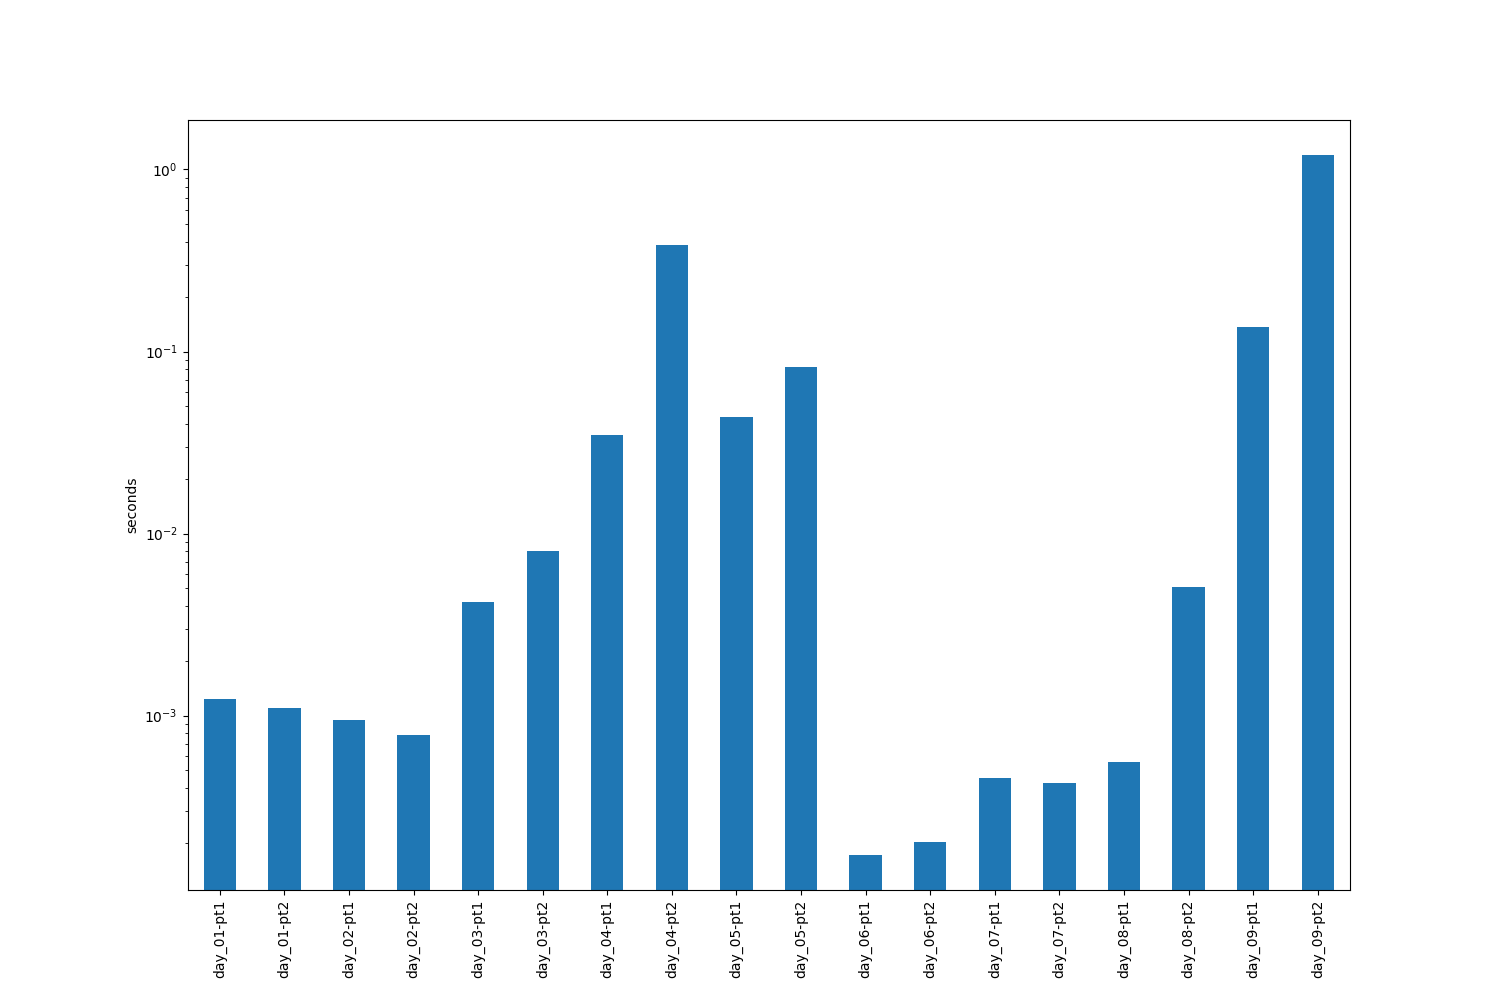
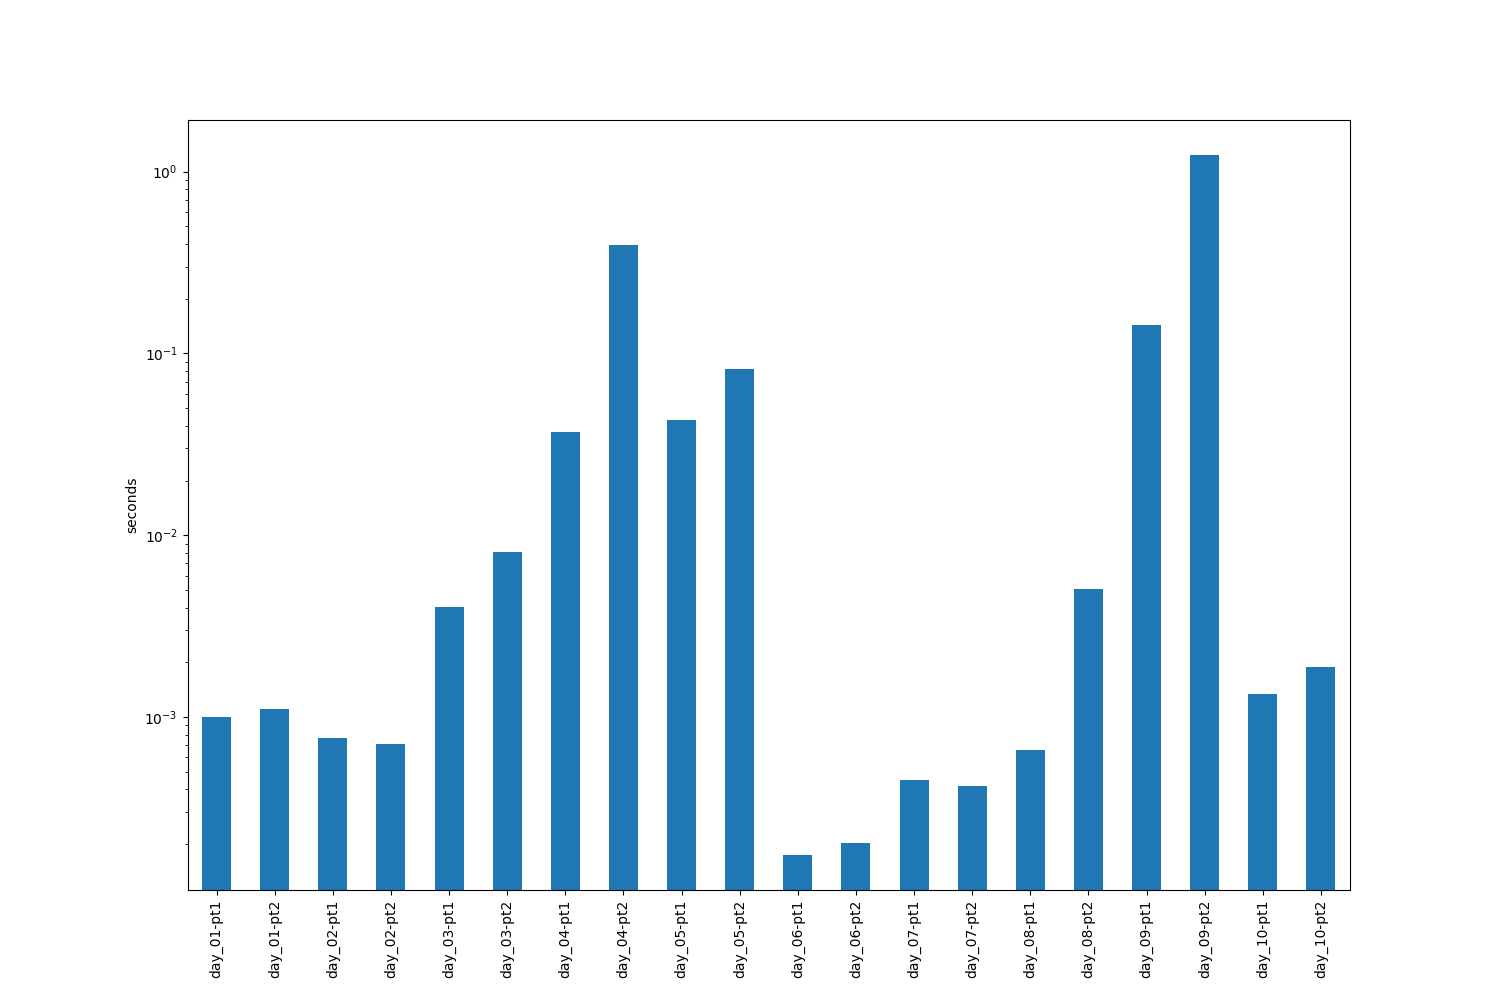
day_10

diff --git a/aoc/day_10.py b/aoc/day_10.py
@@ -1,0 +1,109 @@
+import numpy as np
+
+
+def part_one(file_path: str) -> int:
+    """
+    calculates the sum of the scores of the corrupted lines
+
+    Args:
+        file_path (str):
+
+    Returns:
+        int:
+    """
+
+    # read file
+    with open(file_path) as f:
+        lines = f.readlines()
+
+    # return sum of all lines
+    return sum([corrupted(line.strip()) for line in lines])
+
+
+def part_two(file_path: str) -> int:
+    """
+    removes all corrupted lines
+    then calculates the cost of completing the incompleted lines
+
+    Args:
+        file_path (str): [description]
+
+    Returns:
+        [type]: [description]
+    """
+
+    with open(file_path) as f:
+        lines = f.readlines()
+
+    # initialise scores
+    scores = []
+    # for each line
+    for line in lines:
+        # if it's not corrupted
+        if not corrupted(line.strip()):
+            # add score to list
+            scores.append(incomplete(line.strip()))
+
+    # return median score
+    return int(np.median(scores))
+
+
+def corrupted(line: str) -> int:
+    """
+    calculates if line is corrupted using a stack technique
+
+    Args:
+        line (str):
+
+    Returns:
+        int: score of corrupt character
+    """
+
+    stack = []
+    pair_dict = {"(": ")", "{": "}", "[": "]", "<": ">"}
+    score_dict = {")": 3, "]": 57, "}": 1197, ">": 25137}
+    for character in line:
+        if character in ("(", "{", "[", "<"):
+            stack.append(character)
+        else:
+            if pair_dict[stack.pop()] != character:
+                return score_dict[character]
+    return 0
+
+
+def incomplete(line: str) -> int:
+    """
+    looks at remaining stack to calculate score
+
+    Args:
+        line (str): [description]
+
+    Returns:
+        int:  score of incomplete line
+    """
+
+    score_dict = {"(": 1, "[": 2, "{": 3, "<": 4}
+    # initialise stack
+    stack = []
+    # for each character
+    for character in line:
+        # add to stack
+        if character in ("(", "{", "[", "<"):
+            stack.append(character)
+        # remove from stack
+        else:
+            stack.pop()
+    # calculate score
+    total = 0
+    # score reverse stack
+    for s in stack[::-1]:
+        # multiply score by 5
+        total *= 5
+        # add correspondind score
+        total += score_dict[s]
+    return total
+
+
+if __name__ == "__main__":
+    print(part_one("aoc/inputs/day_10.txt"))
+    print(part_two("aoc/inputs/day_10.txt"))

diff --git a/tests/test_day_10.py b/tests/test_day_10.py
@@ -1,0 +1,15 @@
+from aoc.day_10 import part_one, part_two
+
+
+def test_part_one():
+
+    test_file_path = "tests/test_inputs/test_day_10.txt"
+
+    assert part_one(test_file_path) == 26397
+
+
+def test_part_two():
+
+    test_file_path = "tests/test_inputs/test_day_10.txt"
+
+    assert part_two(test_file_path) == 288957
